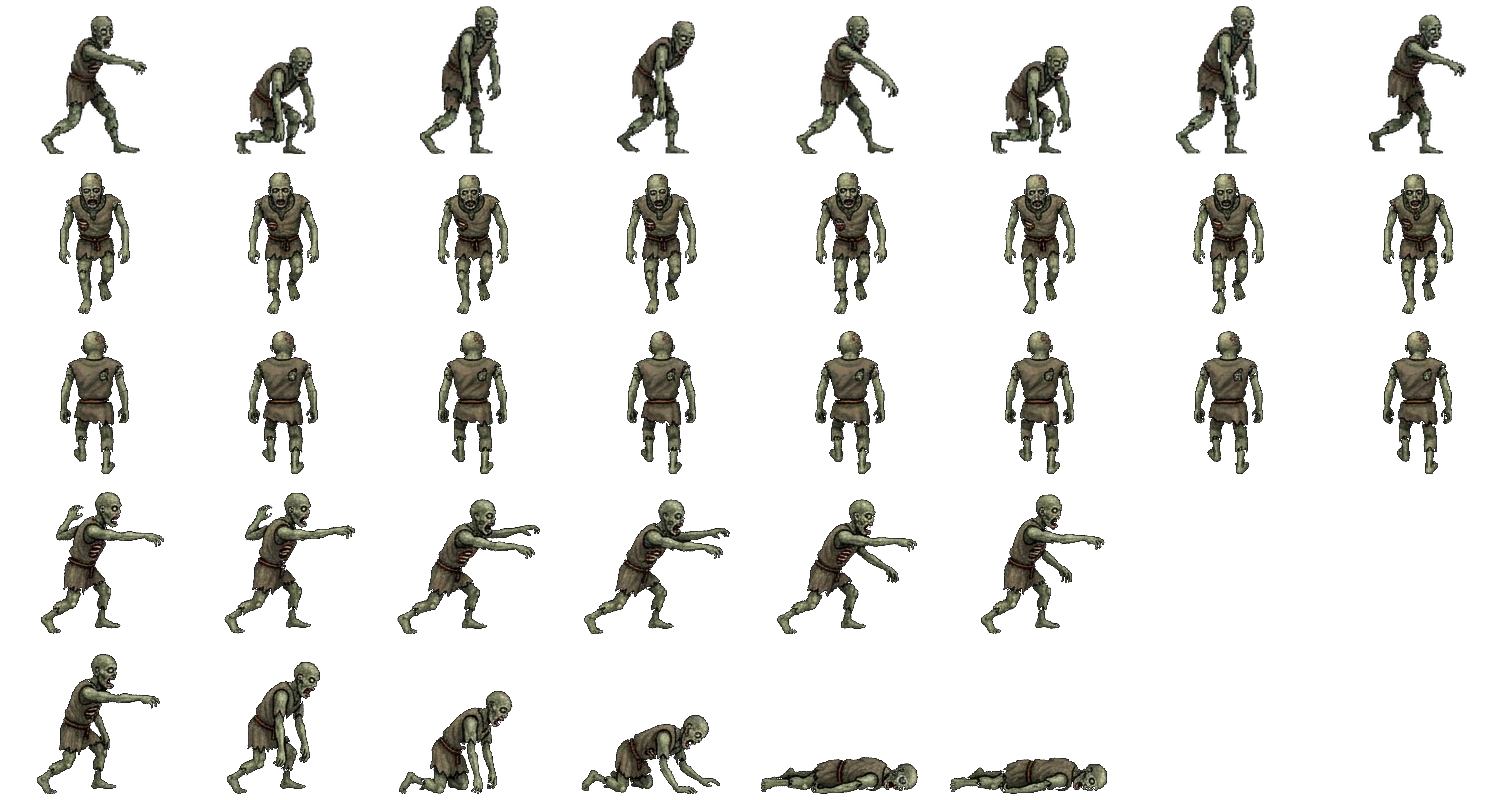
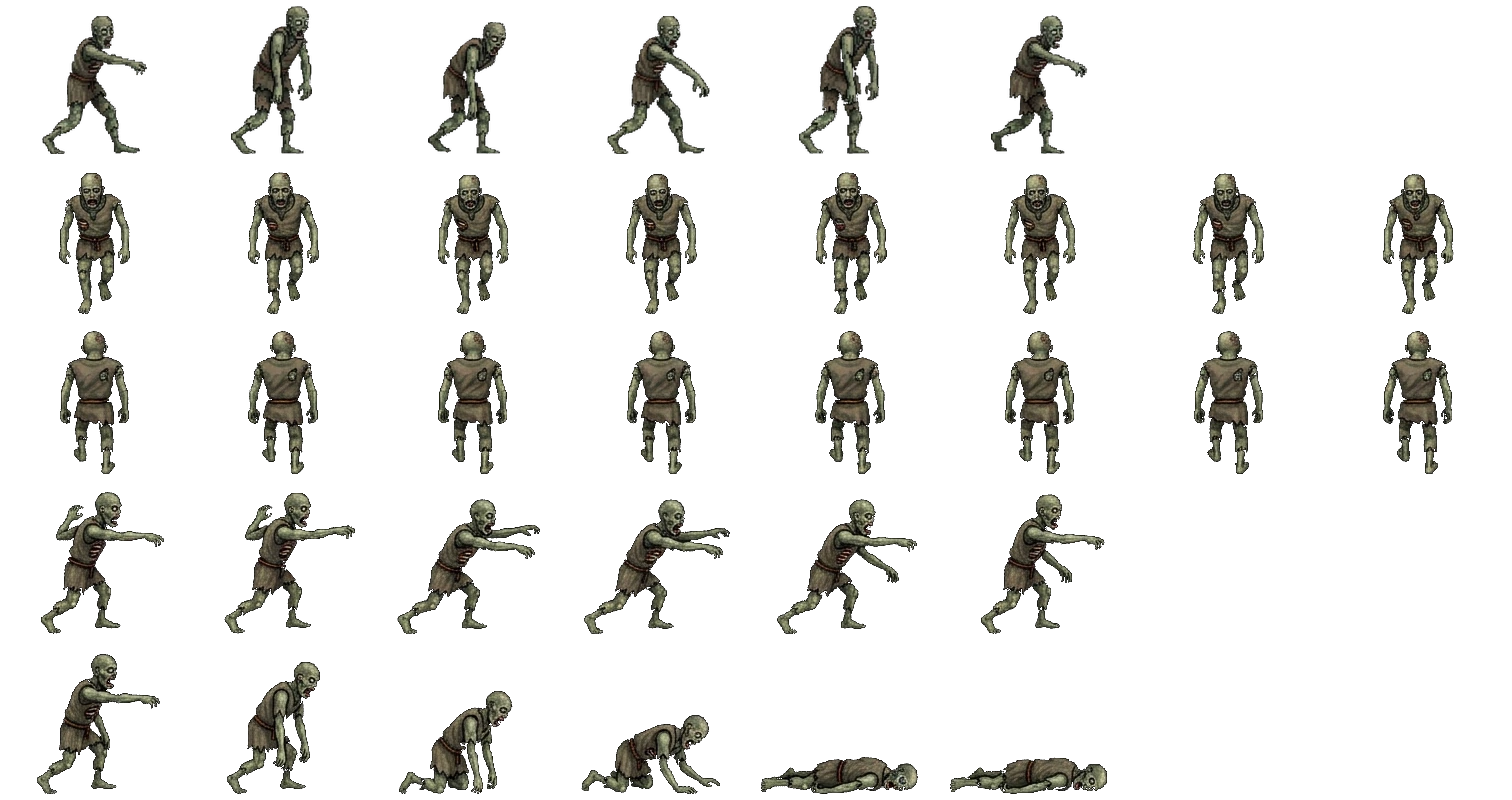
Обновление игры

diff --git a/js/main.js b/js/main.js
@@ -1,25 +1,25 @@
 // Точка входа: загрузка ассетов, навигация (старт → карта → сложность → подготовка → бой), игровой цикл, ввод, сохранения.
-import * as D from './data.js?v=20261023170657';
-import * as A from './art.js?v=20261023170657';
-import { Sim } from './sim.js?v=20261023170657';
-import { Gore } from './gore.js?v=20261023170657';
-import { Renderer } from './render.js?v=20261023170657';
-import { GameUI } from './ui.js?v=20261023170657';
-import { Tutorial } from './tutorial.js?v=20261023170657';
-import { Sfx, attachSfx } from './audio.js?v=20261023170657';
-import { TG, defaultSave, defaultSettings, betterRun } from './tg.js?v=20261023170657';
-import { applyEnemySprites, releaseEnemies, enemyFiles } from './enemies.js?v=20261023170657';
-import { loadSprites, loadEnemyImgs, loadLand, dropLand } from './sprites.js?v=20261023170657';
-import { mapBG, releaseBG } from './env.js?v=20261023170657';
-import { levelSpec, MENU_SPEC } from './music.js?v=20261023170657';
-import { Meta, perkMods, lockedItems, nextAfter, tutorialDone, getLoadout, slotsOf } from './meta.js?v=20261023170657';
-import { renderForge, renderAchs } from './screens.js?v=20261023170657';
-import { renderShop } from './shop.js?v=20261023170657';
-import { Wallet } from './wallet.js?v=20261023170657';
-import { initLang, pickLang } from './i18n.js?v=20261023170657';
-import { Menus, RUN, clock } from './menus.js?v=20261023170657';
-import { Net } from './net.js?v=20261023170657';
-import { bareGlyphUrl, glyphIcon, iconUrl, PALETTE } from './icons.js?v=20261023170657';
+import * as D from './data.js?v=20261023171212';
+import * as A from './art.js?v=20261023171212';
+import { Sim } from './sim.js?v=20261023171212';
+import { Gore } from './gore.js?v=20261023171212';
+import { Renderer } from './render.js?v=20261023171212';
+import { GameUI } from './ui.js?v=20261023171212';
+import { Tutorial } from './tutorial.js?v=20261023171212';
+import { Sfx, attachSfx } from './audio.js?v=20261023171212';
+import { TG, defaultSave, defaultSettings, betterRun } from './tg.js?v=20261023171212';
+import { applyEnemySprites, releaseEnemies, enemyFiles } from './enemies.js?v=20261023171212';
+import { loadSprites, loadEnemyImgs, loadLand, dropLand } from './sprites.js?v=20261023171212';
+import { mapBG, releaseBG } from './env.js?v=20261023171212';
+import { levelSpec, MENU_SPEC } from './music.js?v=20261023171212';
+import { Meta, perkMods, lockedItems, nextAfter, tutorialDone, getLoadout, slotsOf } from './meta.js?v=20261023171212';
+import { renderForge, renderAchs } from './screens.js?v=20261023171212';
+import { renderShop } from './shop.js?v=20261023171212';
+import { Wallet } from './wallet.js?v=20261023171212';
+import { initLang, pickLang } from './i18n.js?v=20261023171212';
+import { Menus, RUN, clock } from './menus.js?v=20261023171212';
+import { Net } from './net.js?v=20261023171212';
+import { bareGlyphUrl, glyphIcon, iconUrl, PALETTE } from './icons.js?v=20261023171212';
 
 const $ = (s) => document.querySelector(s);
 const show = (id) => $(id).classList.remove('hidden');
@@ -48,7 +48,7 @@ async function boot() {
   await initLang(pickLang());                                                   // язык интерфейса: до построения экранов
   TG.init();
   if (location.search.includes('debug')) window.__bk = ctrl;
-  if (location.search.includes('enemydemo')) import('./demo.js?v=20261023170657').then((m) => m.enemyDemo(ctrl));
+  if (location.search.includes('enemydemo')) import('./demo.js?v=20261023171212').then((m) => m.enemyDemo(ctrl));
   save = await TG.load(); ctrl.save = save;
   sfx.sfxOn = save.sfx; sfx.musOn = save.mus; applySettings();
   const dpr = Math.min(window.devicePixelRatio || 1, TG.isMobile ? 1.5 : 2);      // на телефоне холст чуть мельче: меньше нагрев

diff --git a/js/enemies.js b/js/enemies.js
@@ -1,6 +1,6 @@
 // Процедурные спрайты врагов (кадры ходьбы) и кусков тел для расчленёнки.
-import { SPR, img, dropImg, enemyFile } from './sprites.js?v=20261023170657';
-import { OUT, S, mk, cached, dropCache, shade, rgba, lin, rad, rrect, ell, circ, poly, fillStroke, tube, glow, shadowEll, rng } from './art.js?v=20261023170657';
+import { SPR, img, dropImg, enemyFile } from './sprites.js?v=20261023171212';
+import { OUT, S, mk, cached, dropCache, shade, rgba, lin, rad, rrect, ell, circ, poly, fillStroke, tube, glow, shadowEll, rng } from './art.js?v=20261023171212';
 
 export const FRAMES = 8;
 const T2 = Math.PI * 2;
@@ -383,13 +383,13 @@ export const ENEMY_ART = {
 // ───── растровые враги: полоса кадров ходьбы из img/enemies/<файл>.webp ─────
 // id в игре → [файл, высота на экране в логических px, доп. поля]
 const SPRITE_ENEMIES = {
-  grunt: ['grunt', 38, { scale: 0.92 }], skeleton: ['skeleton', 44], zombie: ['zombie', 44], bat: ['bat', 36, { air: true, scale: 0.9 }],
-  hound: ['hound', 40, { scale: 0.95 }], slime: ['slime', 40, { scale: 0.95 }], slimelet: ['slime', 24, { scale: 0.57 }], shaman: ['shaman', 42, { scale: 0.95 }], knight: ['knight', 48, { scale: 1.05 }],
-  butcher: ['butcher', 52, { scale: 1.12 }], gargoyle: ['gargoyle', 44, { air: true, scale: 0.95 }],
-  berserker: ['berserker', 46], ogre: ['ogre', 56, { scale: 1.15 }], reaper: ['reaper', 44, { scale: 0.95 }], lich: ['lich', 58, { scale: 1.05 }], demon: ['demon', 74],
+  grunt: ['grunt', 38], skeleton: ['skeleton', 44], zombie: ['zombie', 44], bat: ['bat', 36, { air: true }],
+  hound: ['hound', 40], slime: ['slime', 40], slimelet: ['slime', 24, { scale: 0.6 }], shaman: ['shaman', 42, { scale: 1.05 }], knight: ['knight', 48],
+  butcher: ['butcher', 52, { scale: 1.08 }], gargoyle: ['gargoyle', 44, { air: true }],
+  berserker: ['berserker', 46], ogre: ['ogre', 56, { scale: 1.1 }], reaper: ['reaper', 44], lich: ['lich', 58], demon: ['demon', 74],
 };
 const FALLBACK = { ...ENEMY_ART };                                // запасные рисованные враги (если лист не загрузился)
-const ENEMY_K = 0.84;                                              // общий масштаб врагов; у каждого вида свой размер (scale выше): гоблин ~29 px, зомби и скелет ~37, рыцарь ~42, мясник ~49, огр ~54, владыка ~62 (клетка 48; здания не ниже среднего монстра)
+const ENEMY_K = 0.95;                                              // общий масштаб врагов; у каждого вида свой размер (ref листа × scale): гоблин ~36 px, шаман ~42, зомби и скелет ~42, рыцарь ~46, мясник ~53, огр ~58, владыка ~70 (клетка 48)
 const RIM = { dark: '#1f1014', px: 0.85, boost: 0.08 };           // тонкая тёмная обводка; px — толщина в мировых пикселях; лёгкая подсветка листа
 // Лист с обводкой: силуэт кольцом смещений (два кольца, чтобы не было зубцов), поверх — сам лист чуть светлее. Поля между кадрами (5+ px) обводка не пересекает.
 function outlineAtlas(im, k) {

diff --git a/js/menus.js b/js/menus.js
@@ -1,14 +1,14 @@
 // Экраны вне боя: стартовый, карта кампании (рисованная карта мира), выбор сложности (карусель), рейтинговый забег, таблицы лидеров.
-import { LANGS, setLang, lang as curLang } from './i18n.js?v=20261023170657';
-import * as D from './data.js?v=20261023170657';
-import * as M from './meta.js?v=20261023170657';
-import { glyphIcon, iconUrl, bareGlyphUrl, PALETTE } from './icons.js?v=20261023170657';
-import { url as imgUrl } from './sprites.js?v=20261023170657';
-import { Net } from './net.js?v=20261023170657';
-import { towerIcon, econIcon, itemChips } from './ui.js?v=20261023170657';
-import { fillPlates, gemIc } from './res.js?v=20261023170657';
-import { gemHtml } from './gem3d.js?v=20261023170657';
-import { Wallet } from './wallet.js?v=20261023170657';
+import { LANGS, setLang, lang as curLang } from './i18n.js?v=20261023171212';
+import * as D from './data.js?v=20261023171212';
+import * as M from './meta.js?v=20261023171212';
+import { glyphIcon, iconUrl, bareGlyphUrl, PALETTE } from './icons.js?v=20261023171212';
+import { url as imgUrl } from './sprites.js?v=20261023171212';
+import { Net } from './net.js?v=20261023171212';
+import { towerIcon, econIcon, itemChips } from './ui.js?v=20261023171212';
+import { fillPlates, gemIc } from './res.js?v=20261023171212';
+import { gemHtml } from './gem3d.js?v=20261023171212';
+import { Wallet } from './wallet.js?v=20261023171212';
 
 const $ = (s) => document.querySelector(s);
 const el = (tag, cls, html) => { const e = document.createElement(tag); if (cls) e.className = cls; if (html !== undefined) e.innerHTML = html; return e; };

diff --git a/js/screens.js b/js/screens.js
@@ -1,12 +1,12 @@
 // Экраны меню: Кузница душ и Достижения (иконки в стиле WC3).
-import * as D from './data.js?v=20261023170657';
-import { uiIcon } from './env.js?v=20261023170657';
-import { glyphIcon, iconUrl, bareGlyphUrl, PALETTE, PERK_GLYPH, ACH_GLYPH } from './icons.js?v=20261023170657';
-import { towerIcon, econIcon } from './ui.js?v=20261023170657';
-import { PERKS, perkCost, buyPerk, ACH, itemUnlocked, unlockItem, slotsOf, buySlot } from './meta.js?v=20261023170657';
-import { fillPlates, trophyPlate, gemIc } from './res.js?v=20261023170657';
-import { ACH_IMG } from './iconmap.js?v=20261023170657';
-import { Wallet } from './wallet.js?v=20261023170657';
+import * as D from './data.js?v=20261023171212';
+import { uiIcon } from './env.js?v=20261023171212';
+import { glyphIcon, iconUrl, bareGlyphUrl, PALETTE, PERK_GLYPH, ACH_GLYPH } from './icons.js?v=20261023171212';
+import { towerIcon, econIcon } from './ui.js?v=20261023171212';
+import { PERKS, perkCost, buyPerk, ACH, itemUnlocked, unlockItem, slotsOf, buySlot } from './meta.js?v=20261023171212';
+import { fillPlates, trophyPlate, gemIc } from './res.js?v=20261023171212';
+import { ACH_IMG } from './iconmap.js?v=20261023171212';
+import { Wallet } from './wallet.js?v=20261023171212';
 
 const $ = (s) => document.querySelector(s);
 const el = (tag, cls, html) => { const e = document.createElement(tag); if (cls) e.className = cls; if (html !== undefined) e.innerHTML = html; return e; };

diff --git a/js/shop.js b/js/shop.js
@@ -1,12 +1,12 @@
 // Магазин: ежедневный подарок, стартовый набор (один раз), премиум-башни за кристаллы, пакеты кристаллов за Telegram Stars.
 // Приёмы, которые тут работают на повторные покупки: первая покупка каждого пакета даёт ×2, ярлыки «Хит» и «Лучшая цена»,
 // серия подарков на 7 дней, постоянные траты кристаллов (слоты, закрытые здания, премиум, усилители с растущей ценой).
-import * as D from './data.js?v=20261023170657';
-import { Wallet } from './wallet.js?v=20261023170657';
-import { fillPlates, gemIc } from './res.js?v=20261023170657';
-import { towerIcon } from './ui.js?v=20261023170657';
-import { iconUrl, bareGlyphUrl, glyphIcon } from './icons.js?v=20261023170657';
-import { SHOP_IMG } from './iconmap.js?v=20261023170657';
+import * as D from './data.js?v=20261023171212';
+import { Wallet } from './wallet.js?v=20261023171212';
+import { fillPlates, gemIc } from './res.js?v=20261023171212';
+import { towerIcon } from './ui.js?v=20261023171212';
+import { iconUrl, bareGlyphUrl, glyphIcon } from './icons.js?v=20261023171212';
+import { SHOP_IMG } from './iconmap.js?v=20261023171212';
 const big = (n, s = 96) => iconUrl(glyphIcon(n, { size: s }));
 
 const $ = (s) => document.querySelector(s);

diff --git a/js/render.js b/js/render.js
@@ -1,10 +1,10 @@
 // Отрисовка игрового поля: фон, кровь, сущности (с сортировкой по глубине), снаряды, частицы, подсказки.
-import { CELL, COLS, ROWS, WORLD_W, WORLD_H, PAD, VIEW_COLS, TOWERS, ECON, SPELLS } from './data.js?v=20261023170657';
-import * as A from './art.js?v=20261023170657';
-import { ENEMY_ART, FRAMES, enemyFrame, tinted, tintCanvas, animFrame, drawAnim, BLOOD } from './enemies.js?v=20261023170657';
-import { tile } from './iconmap.js?v=20261023170657';
-import { img } from './sprites.js?v=20261023170657';
-import { mapBG, glowSprite, smokeSprite, shardSprite, coinSprite, bagSprite, sawBladeSprite, guardSprite, scorchSprite } from './env.js?v=20261023170657';
+import { CELL, COLS, ROWS, WORLD_W, WORLD_H, PAD, VIEW_COLS, TOWERS, ECON, SPELLS } from './data.js?v=20261023171212';
+import * as A from './art.js?v=20261023171212';
+import { ENEMY_ART, FRAMES, enemyFrame, tinted, tintCanvas, animFrame, drawAnim, BLOOD } from './enemies.js?v=20261023171212';
+import { tile } from './iconmap.js?v=20261023171212';
+import { img } from './sprites.js?v=20261023171212';
+import { mapBG, glowSprite, smokeSprite, shardSprite, coinSprite, bagSprite, sawBladeSprite, guardSprite, scorchSprite } from './env.js?v=20261023171212';
 
 const T2 = Math.PI * 2;
 const clamp = (v, a, b) => Math.max(a, Math.min(b, v));

diff --git a/js/ui.js b/js/ui.js
@@ -1,10 +1,10 @@
 // Интерфейс боя: HUD, выдвижная панель слотов, блок выбранного здания (иконки) и окно выбора улучшения. Без поясняющих текстов — только иконки и цифры.
-import * as D from './data.js?v=20261023170657';
-import * as A from './art.js?v=20261023170657';
-import { uiIcon } from './env.js?v=20261023170657';
-import { enemyFrame, gibSprite } from './enemies.js?v=20261023170657';
-import { glyphIcon, spriteIcon, iconUrl, bareGlyphUrl, PALETTE, STAT_GLYPH, SPELL_GLYPH } from './icons.js?v=20261023170657';
-import { TARGET_MODES } from './sim.js?v=20261023170657';
+import * as D from './data.js?v=20261023171212';
+import * as A from './art.js?v=20261023171212';
+import { uiIcon } from './env.js?v=20261023171212';
+import { enemyFrame, gibSprite } from './enemies.js?v=20261023171212';
+import { glyphIcon, spriteIcon, iconUrl, bareGlyphUrl, PALETTE, STAT_GLYPH, SPELL_GLYPH } from './icons.js?v=20261023171212';
+import { TARGET_MODES } from './sim.js?v=20261023171212';
 
 const $ = (s, r = document) => r.querySelector(s);
 const el = (tag, cls, html) => { const e = document.createElement(tag); if (cls) e.className = cls; if (html !== undefined) e.innerHTML = html; return e; };

diff --git a/js/gore.js b/js/gore.js
@@ -1,9 +1,9 @@
 // Расчленёнка, кровь и частицы. Подписывается на события симуляции и рисует в постоянный «слой крови».
-import { tr } from './i18n.js?v=20261023170657';
-import { WORLD_W, WORLD_H, CELL, ENEMIES } from './data.js?v=20261023170657';
-import { S as ART_S } from './art.js?v=20261023170657';
-import { BLOOD, gibSprite, gibKinds, enemyFrame, tinted, ENEMY_ART } from './enemies.js?v=20261023170657';
-import { splatSprite, poolSprite, scorchSprite, iceSprite, glowSprite, smokeSprite, shardSprite, coinSprite } from './env.js?v=20261023170657';
+import { tr } from './i18n.js?v=20261023171212';
+import { WORLD_W, WORLD_H, CELL, ENEMIES } from './data.js?v=20261023171212';
+import { S as ART_S } from './art.js?v=20261023171212';
+import { BLOOD, gibSprite, gibKinds, enemyFrame, tinted, ENEMY_ART } from './enemies.js?v=20261023171212';
+import { splatSprite, poolSprite, scorchSprite, iceSprite, glowSprite, smokeSprite, shardSprite, coinSprite } from './env.js?v=20261023171212';
 
 const GRAV = 560;
 const LAYERS = 3, SPAN = 6, HOLD = 6, FADE = 5;   // секунд игрового времени

diff --git a/js/env.js b/js/env.js
@@ -1,9 +1,9 @@
 // Окружение: фон карт, пятна крови, иконки интерфейса. На картах стоят только деревья и валуны; портал и ворота — на концах дороги.
-import { OUT, S, mk, cached, shade, lin, rad, rrect, ell, circ, poly, fillStroke, tube, glow, shadowEll, rng } from './art.js?v=20261023170657';
-import { CELL, COLS, ROWS, WORLD_W, WORLD_H, PAD, MAPS } from './data.js?v=20261023170657';
-import { UI_IMG, inner } from './iconmap.js?v=20261023170657';
-import { BLOOD } from './enemies.js?v=20261023170657';
-import { SPR, img } from './sprites.js?v=20261023170657';
+import { OUT, S, mk, cached, shade, lin, rad, rrect, ell, circ, poly, fillStroke, tube, glow, shadowEll, rng } from './art.js?v=20261023171212';
+import { CELL, COLS, ROWS, WORLD_W, WORLD_H, PAD, MAPS } from './data.js?v=20261023171212';
+import { UI_IMG, inner } from './iconmap.js?v=20261023171212';
+import { BLOOD } from './enemies.js?v=20261023171212';
+import { SPR, img } from './sprites.js?v=20261023171212';
 
 const T2 = Math.PI * 2;
 const clamp = (v, a, b) => Math.max(a, Math.min(b, v));

diff --git a/js/data.js b/js/data.js
@@ -1,7 +1,7 @@
 // Все игровые данные: карты, башни, экономика, враги, волны.
 // Файл не зависит ни от DOM, ни от canvas — его использует и симуляция в Node (баланс-бот).
 
-import { COLS, ROWS } from './layouts.js?v=20261023170657';
+import { COLS, ROWS } from './layouts.js?v=20261023171212';
 export const CELL = 48;
 export { COLS, ROWS };
 export const WORLD_W = CELL * COLS, WORLD_H = CELL * ROWS;
@@ -20,7 +20,7 @@ export const CHEST_CHANCE = 0.6, CHEST_HITS = 3, CHEST_GOLD = 80;
 
 // ───────────────────────── Карты ─────────────────────────
 // Уровни кампании описаны в levels.js (раскладки дорог — в layouts.js). Индекс в MAPS = номер уровня.
-import { LEVELS, SECTORS, CAMPAIGN } from './levels.js?v=20261023170657';
+import { LEVELS, SECTORS, CAMPAIGN } from './levels.js?v=20261023171212';
 export const MAPS = LEVELS;
 export { CAMPAIGN };
 export { SECTORS };

diff --git a/index.html b/index.html
@@ -36,8 +36,8 @@ img:not([src]),img[src=""]{visibility:hidden}
 @font-face{font-family:'Oswald';font-style:normal;font-weight:700;font-display:swap;src:url(fonts/oswald-latin-5.woff2) format('woff2');unicode-range:U+0000-00FF, U+0131, U+0152-0153, U+02BB-02BC, U+02C6, U+02DA, U+02DC, U+0304, U+0308, U+0329, U+2000-206F, U+20AC, U+2122, U+2191, U+2193, U+2212, U+2215, U+FEFF, U+FFFD}
 </style>
 <script defer src="https://telegram.org/js/telegram-web-app.js"></script>
-<link rel="stylesheet" href="css/style.css?v=20261023170657" media="print" onload="this.media='all'">
-<noscript><link rel="stylesheet" href="css/style.css?v=20261023170657"></noscript>
+<link rel="stylesheet" href="css/style.css?v=20261023171212" media="print" onload="this.media='all'">
+<noscript><link rel="stylesheet" href="css/style.css?v=20261023171212"></noscript>
 </head>
 <body>
 <div id="app">
@@ -203,6 +203,6 @@ img:not([src]),img[src=""]{visibility:hidden}
   </div>
 
 </div>
-<script type="module" src="js/main.js?v=20261023170657"></script>
+<script type="module" src="js/main.js?v=20261023171212"></script>
 </body>
 </html>

diff --git a/js/wallet.js b/js/wallet.js
@@ -1,8 +1,8 @@
 // Кошелёк донат-кристаллов. В Telegram баланс, покупки и цены живут на сервере (supabase/schema.sql), клиент только показывает.
 // Вне Telegram (обычный браузер) работает локальный режим для разработки: траты считаются в сохранении, пополнение только с ?debug.
-import * as D from './data.js?v=20261023170657';
-import { Net } from './net.js?v=20261023170657';
-import { TG } from './tg.js?v=20261023170657';
+import * as D from './data.js?v=20261023171212';
+import { Net } from './net.js?v=20261023171212';
+import { TG } from './tg.js?v=20261023171212';
 
 const today = () => new Date().toISOString().slice(0, 10);
 const debug = () => location.search.includes('debug');
